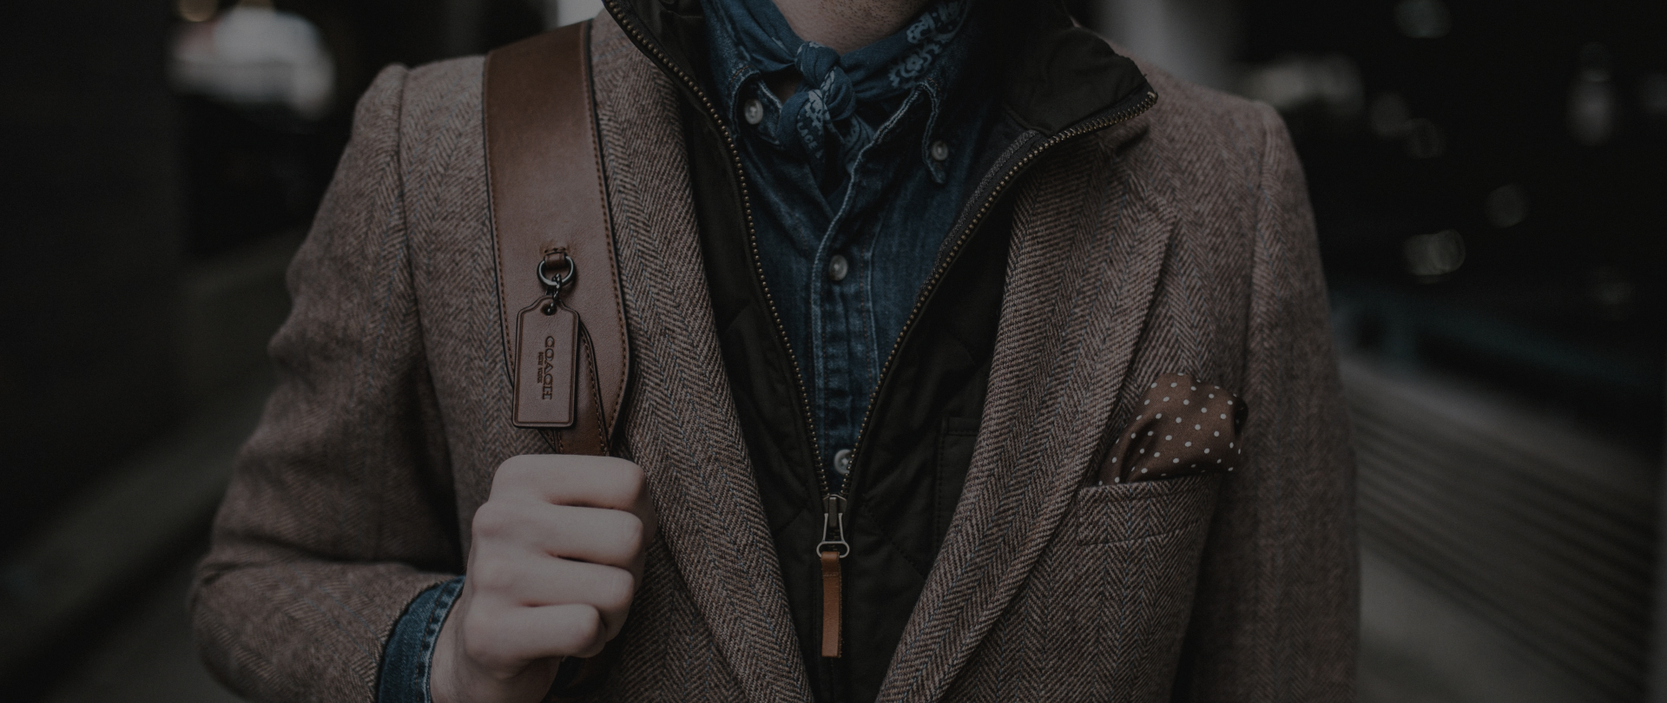
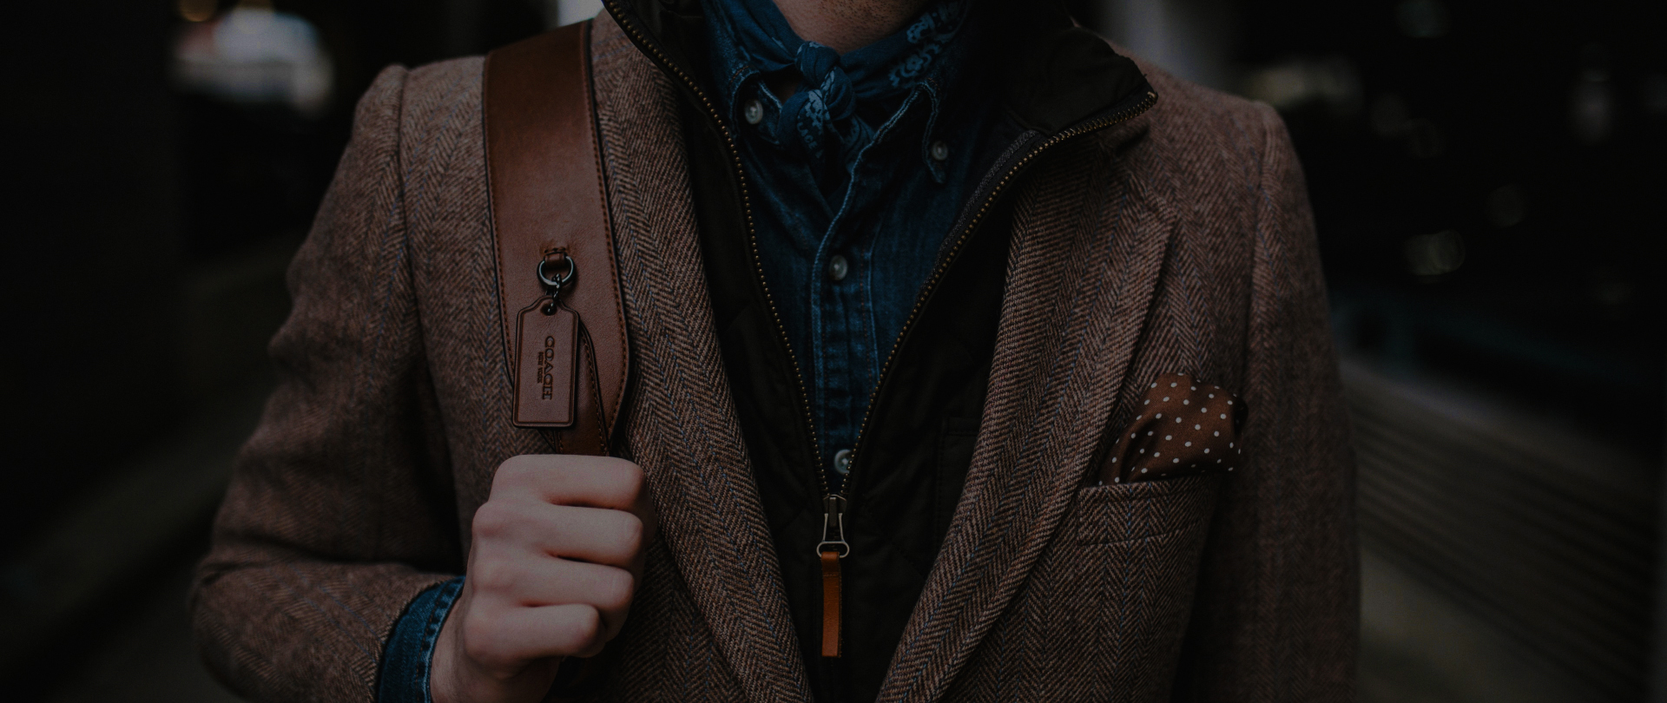
adaptive test

diff --git a/build/css/style.min.css b/build/css/style.min.css
@@ -1,1 +1,1 @@
-*{padding:0;margin:0;border:none}*,::after,::before{-webkit-box-sizing:border-box;box-sizing:border-box}a,a:link,a:visited{text-decoration:none}a:hover{text-decoration:none}aside,footer,header,main,nav,section{display:block}h1,h2,h3,h4,h5,h6,p{font-size:inherit;font-weight:inherit}ul,ul li{list-style:none}img{vertical-align:top}img,svg{max-width:100%;height:auto}address{font-style:normal}button,input,select,textarea{font-family:inherit;font-size:inherit;color:inherit;background-color:transparent}input::-ms-clear{display:none}button,input[type=submit]{display:inline-block;-webkit-box-shadow:none;box-shadow:none;background-color:transparent;background:0 0;cursor:pointer}button:active,button:focus,input:active,input:focus{outline:0}button::-moz-focus-inner{padding:0;border:0}label{cursor:pointer}legend{display:block}.main__body{max-width:1920px;width:100%;margin:0 auto;padding:0 0}.container{max-width:1140px;width:100%;margin:0 auto;padding:0 15px}body{font-family:"PT Sans",sans-serif;font-weight:400;color:#fff;font-size:16px;line-height:1.2;background-color:#000}body.locked{overflow:hidden}body.dark{background:#242424}.icon{background-repeat:no-repeat;background-position:center;background-size:cover;display:inline-block;-webkit-transition:scale .3s ease-in-out;transition:scale .3s ease-in-out}.icon:hover{scale:1.2}.sr-only{position:absolute;width:1px;height:1px;margin:-1px;border:0;padding:0;white-space:nowrap;-webkit-clip-path:inset(100%);clip-path:inset(100%);clip:rect(0 0 0 0);overflow:hidden}.sticky{position:fixed;width:100%;top:0;-webkit-animation-name:navbar;animation-name:navbar;-webkit-animation-duration:.4s;animation-duration:.4s;z-index:1000}@-webkit-keyframes navbar{0%{-webkit-transform:translateY(-100%);transform:translateY(-100%)}100%{-webkit-transform:translateY(0);transform:translateY(0)}}@keyframes navbar{0%{-webkit-transform:translateY(-100%);transform:translateY(-100%)}100%{-webkit-transform:translateY(0);transform:translateY(0)}}.title{font-family:"Playfair Display",serif;font-weight:700;line-height:1.3;font-size:36px;text-align:center;color:#fff}.title::after{content:"";display:block;width:120px;height:1px;background-color:#fff;margin-top:36px;margin:36px auto 0}.button{border:1px solid #fff;padding:12px 28px;font-size:18px;text-transform:uppercase}.button:hover{background-color:#252525;-webkit-transition:background-color .3s ease-in-out;transition:background-color .3s ease-in-out}.button-footer{background-color:#0f0f0f;font-size:14px;line-height:1.5;padding:10px 20px;color:#d0d0d0}.card{display:-webkit-box;display:-ms-flexbox;display:flex;-webkit-box-orient:vertical;-webkit-box-direction:normal;-ms-flex-direction:column;flex-direction:column;gap:10px;font-family:"Playfair Display",serif}.card__link{background-color:#191b1c;margin-bottom:15px;padding:22px 26px}.card__title{font-size:18px;font-weight:400;max-height:50px;overflow:hidden;white-space:nowrap;text-overflow:ellipsis}.card__price{font-size:16px;font-weight:700;color:#d0d0d0;max-height:50px;overflow:hidden;white-space:nowrap;text-overflow:ellipsis}::-webkit-scrollbar{width:10px;background-color:transparent}::-webkit-scrollbar-thumb{background-color:#34261f;border-radius:5px}::-webkit-scrollbar-thumb:hover{background-color:#3f2d25}.header{background-color:#000}.navbar{background-color:#0f0f0f}.navbar__inner{display:-webkit-box;display:-ms-flexbox;display:flex;-webkit-box-pack:justify;-ms-flex-pack:justify;justify-content:space-between;-webkit-box-align:center;-ms-flex-align:center;align-items:center}.logo{z-index:10}.logo a{color:#fff}.logo__img{width:104px;height:27px}.nav__inner{display:-webkit-box;display:-ms-flexbox;display:flex;-webkit-box-align:center;-ms-flex-align:center;align-items:center;gap:32px}.nav__actions{display:-webkit-box;display:-ms-flexbox;display:flex;-webkit-box-align:center;-ms-flex-align:center;align-items:center;gap:40px}.nav__content{height:80px;display:-webkit-box;display:-ms-flexbox;display:flex;-webkit-box-align:center;-ms-flex-align:center;align-items:center;-webkit-box-pack:justify;-ms-flex-pack:justify;justify-content:space-between}.menu{display:-webkit-box;display:-ms-flexbox;display:flex;-webkit-box-align:center;-ms-flex-align:center;align-items:center;text-transform:uppercase}.menu__item{display:-webkit-box;display:-ms-flexbox;display:flex;position:relative}.menu .menu__link{color:gray;-webkit-transition:color .3s ease-in-out,background-color .3s ease-in-out;transition:color .3s ease-in-out,background-color .3s ease-in-out;background-color:none;padding:30.8px 15px;line-height:1.3}.menu .menu__link:hover{color:#fff;background-color:#1f1f1f}.burger{display:none;background:0 0;z-index:3}.header__top{display:-webkit-box;display:-ms-flexbox;display:flex;-webkit-box-pack:justify;-ms-flex-pack:justify;justify-content:space-between;-webkit-box-align:center;-ms-flex-align:center;align-items:center;font-size:12px;color:gray;padding:14px 0}.top__info-phone::before{content:"";background-image:url(../img/header/phone.svg);background-repeat:no-repeat;background-position:center;background-size:cover;display:inline-block;width:13px;height:13px;margin-right:15px;margin-bottom:-3px}.btn-logout::before{content:"";background-image:url(../img/header/logout.svg);background-repeat:no-repeat;background-position:center;background-size:cover;display:inline-block;width:13px;height:13px;margin-right:19px;margin-bottom:-3px}.btn-login:hover,.btn-register:hover{color:#fff;-webkit-transition:color .3s ease-in-out;transition:color .3s ease-in-out}.icon--search{content:"";background-image:url(../img/header/search.svg);width:17px;height:17px}.icon--cart{content:"";background-image:url(../img/header/cart.svg);width:23px;height:18px}.hero{background-image:-webkit-gradient(linear,left top,left bottom,from(rgba(0,0,0,.4))),url(../img/hero/hero12.jpg);background-image:linear-gradient(rgba(0,0,0,.4)),url(../img/hero/hero12.jpg);background-repeat:no-repeat;background-position:center;background-size:cover;padding:155px 0;display:-webkit-box;display:-ms-flexbox;display:flex;-webkit-box-align:center;-ms-flex-align:center;align-items:center}.hero__title{font-size:clamp(16px,-.625rem + 8vw,22px);text-transform:uppercase;line-height:1.3}.hero__inner{display:-webkit-box;display:-ms-flexbox;display:flex;-webkit-box-orient:vertical;-webkit-box-direction:normal;-ms-flex-direction:column;flex-direction:column;-webkit-box-align:center;-ms-flex-align:center;align-items:center;gap:80px}.hero__content{display:-webkit-box;display:-ms-flexbox;display:flex;-webkit-box-orient:vertical;-webkit-box-direction:normal;-ms-flex-direction:column;flex-direction:column;-webkit-box-align:center;-ms-flex-align:center;align-items:center;gap:8px;border:4px solid #fff;padding:110px 60px}.hero__logo{width:185px;height:63px;border-bottom:2px solid #fff;padding-bottom:12px}.hero__text{font-size:16px;text-transform:uppercase;font-size:clamp(12px,.756rem + .51vw,16px);line-height:1.5;max-width:740px;text-align:center}.container-inner{width:100%;max-width:1920px;margin:0 auto}.wrap{display:grid;grid-template-columns:repeat(2,1fr);grid-template-rows:auto auto auto;grid-column-gap:80px}.season__cards{grid-column:1/span 1;grid-row:1}.season__cards--title{text-align:center;margin-bottom:50px;padding-top:90px}.season__cards-list{display:-webkit-box;display:-ms-flexbox;display:flex}.season__catalog{grid-column:2/span 1;grid-row:1;position:relative;background-image:url(/img/season/season.jpg);background-repeat:no-repeat;background-position:center;background-size:cover;aspect-ratio:880/730}.season__catalog-content{position:absolute;top:74%;left:50%;-webkit-transform:translate(-50%,-50%);-ms-transform:translate(-50%,-50%);transform:translate(-50%,-50%);text-align:center}.season__content--title{margin-bottom:30px;text-transform:uppercase;font-size:clamp(30px,.865rem + 1.15vw,36px)}.card__link--season{margin-bottom:25px;display:block}.card__title--season{margin-bottom:10px;display:block;max-height:50px;overflow:hidden;white-space:nowrap;text-overflow:ellipsis}.swiper{max-width:800px;height:440px}.swiper-slide img{width:215px;height:264px;-o-object-fit:cover;object-fit:cover}.swiper .swiper-pagination{display:-webkit-box;display:-ms-flexbox;display:flex;-webkit-box-pack:center;-ms-flex-pack:center;justify-content:center;-webkit-box-align:center;-ms-flex-align:center;align-items:center;margin-top:20px}.swiper .swiper-pagination-bullet{width:12px;height:12px;background-color:#333;border-radius:50%;margin:0 5px}.swiper .swiper-pagination-bullet-active{background-color:#c08d6c}.collection__img{grid-column:1/span 1;grid-row:2;background-image:url(/img/collection/collection.jpg);background-repeat:no-repeat;background-position:center;background-size:cover;aspect-ratio:880/730}.collection__content--title{margin-bottom:40px}.collection__text{font-size:16px;line-height:1.5;max-width:680px;text-align:center;margin-bottom:clamp(32px,-3.25rem + 5.83vw,62px)}.collection__content{grid-column:2/span 1;grid-row:2;align-self:center;justify-self:center;padding:0 30px}.collection__content--button{margin:0 auto;display:block}.novelties{padding:120px 0}.novelties__inner--title{margin-bottom:80px}.novelties__cards-list{display:grid;grid-template-columns:repeat(auto-fill,minmax(215px,1fr));gap:24px}.novelties__cards--style{text-align:center}.novelties__cards--style:nth-child(8){position:relative}.novelties__card--button{position:absolute;top:50%;left:50%;-webkit-transform:translate(-50%,-120%);-ms-transform:translate(-50%,-120%);transform:translate(-50%,-120%);width:190px}.articles{background-color:#0f0f0f}.articles__list{display:grid;grid-template-columns:repeat(2,1fr);grid-template-rows:auto auto auto;grid-row-gap:35px;-webkit-box-align:center;-ms-flex-align:center;align-items:center}.articles--title{padding:60px 0}.articles__img:nth-of-type(1){background-image:url(../img/articles/article-11.jpg);background-repeat:no-repeat;background-size:cover;background-position:center;aspect-ratio:989/437}.articles__img:nth-of-type(2){background-image:url(../img/articles/article-2.webp);background-repeat:no-repeat;background-size:cover;background-position:center;aspect-ratio:989/437}.articles__img:nth-of-type(3){background-image:url(../img/articles/article-3.webp);background-repeat:no-repeat;background-size:cover;background-position:center;aspect-ratio:989/437}.articles__contents-inner{width:100%;max-width:628px;margin:0 auto;padding:0 15px}.articles__content{margin-bottom:40px}.articles__content-title{text-transform:uppercase;font-size:18px;margin-bottom:14px}.articles__content-text{line-height:1.5}.articles__content-bottom{display:-webkit-box;display:-ms-flexbox;display:flex;-webkit-box-pack:justify;-ms-flex-pack:justify;justify-content:space-between;-webkit-box-align:center;-ms-flex-align:center;align-items:center}.articles__content--button{color:#fff}.articles__tags{font-size:18px;text-transform:uppercase;padding:0 15px}.articles__img--grid:nth-of-type(1){grid-column:1/span 1;grid-row:1}.articles__img--grid:nth-of-type(2){grid-column:1/span 1;grid-row:2}.articles__img--grid:nth-of-type(3){grid-column:1/span 1;grid-row:3}.articles__contents--grid:nth-of-type(1){grid-column:2/span 1;grid-row:1}.articles__contents--grid:nth-of-type(2){grid-column:2/span 1;grid-row:2}.articles__contents--grid:nth-of-type(3){grid-column:2/span 1;grid-row:3}.partners{background-color:#0f0f0f;padding:90px 0}.partners--title{margin-bottom:80px}.partners__list{display:-webkit-box;display:-ms-flexbox;display:flex;-webkit-box-align:center;-ms-flex-align:center;align-items:center;-webkit-box-pack:center;-ms-flex-pack:center;justify-content:center;gap:30px;padding:0 20px}.footer__inner{background-image:url(../img/footer/footer.jpg);background-repeat:no-repeat;background-size:cover;background-position:center;padding:80px 0}.footer-wrap{display:grid;grid-template-columns:repeat(auto-fill,minmax(350px,1fr));gap:30px}.footer__title{font-family:"Playfair Display",serif;font-weight:400;font-size:24px;text-transform:uppercase;margin-bottom:40px}.footer__about-text,.footer__mailing-text{line-height:1.5;font-size:14px}.footer__mailing-text{margin-bottom:26px}.footer__list{display:-webkit-box;display:-ms-flexbox;display:flex;-webkit-box-align:center;-ms-flex-align:center;align-items:center;-ms-flex-wrap:wrap;flex-wrap:wrap;row-gap:20px;-webkit-column-gap:10px;-moz-column-gap:10px;column-gap:10px}.footer__form{display:-webkit-box;display:-ms-flexbox;display:flex;-webkit-box-align:center;-ms-flex-align:center;align-items:center}.form__input{background-color:#d0d0d0;padding:10px;border:none;offset:none}input{color:#000}.form__btn{text-transform:uppercase;line-height:1.5;vertical-align:middle}.footer__bottom{padding:20px 0;color:#d0d0d0;font-size:12px}.footer__bottom--inner{display:-webkit-box;display:-ms-flexbox;display:flex;-webkit-box-align:center;-ms-flex-align:center;align-items:center;-webkit-box-pack:justify;-ms-flex-pack:justify;justify-content:space-between}.footer__bottom--inner .footer__policy{color:#d0d0d0;text-decoration:underline}@media screen and (min-width:600px){.articles__content-text{max-height:120px;overflow:hidden;text-overflow:ellipsis}}@media screen and (max-width:1920px){.wrap{grid-column-gap:40px}.season__cards{margin-bottom:60px;padding:0 20px;grid-column:1/span 2}.season__catalog{padding-top:60px;grid-row:2}.season__catalog-content{top:50%}.swiper{max-width:1090px}.swiper-slide{text-align:center}.collection__content{grid-column:1/span 1}}@media (max-width:1439.98px){.container{max-width:1200px}}@media screen and (max-width:1439.98px){.season__catalog{grid-column:2/span 1}.season__catalog-content{left:-50%}.swiper{max-width:800px}.collection__img{grid-row:3}.collection__text{font-size:12px}.collection__content{grid-column:2/span 1;grid-row:3}.articles__img:nth-of-type(1){background-image:-webkit-gradient(linear,left top,left bottom,from(rgba(0,0,0,.6))),url(../img/articles/article-11.jpg);background-image:linear-gradient(rgba(0,0,0,.6)),url(../img/articles/article-11.jpg)}.articles__img:nth-of-type(2){background-image:-webkit-gradient(linear,left top,left bottom,from(rgba(0,0,0,.6))),url(../img/articles/article-2.webp);background-image:linear-gradient(rgba(0,0,0,.6)),url(../img/articles/article-2.webp)}.articles__img:nth-of-type(3){background-image:-webkit-gradient(linear,left top,left bottom,from(rgba(0,0,0,.6))),url(../img/articles/article-3.webp);background-image:linear-gradient(rgba(0,0,0,.6)),url(../img/articles/article-3.webp)}.articles__img--grid:nth-of-type(1){grid-column:1/span 2}.articles__img--grid:nth-of-type(2){grid-column:1/span 2}.articles__img--grid:nth-of-type(3){grid-column:1/span 2}.articles__contents--grid:nth-of-type(1){grid-column:1/span 2}.articles__contents--grid:nth-of-type(2){grid-column:1/span 2}.articles__contents--grid:nth-of-type(3){grid-column:1/span 2}.partners__list{-ms-flex-wrap:wrap;flex-wrap:wrap}}@media (max-width:1023.98px){.container{max-width:970px}}@media screen and (max-width:1023.98px){.collection__text{display:none}}@media screen and (max-width:868px){.swiper{max-width:540px}}@media (max-width:767.98px){.container{max-width:740px}}@media screen and (max-width:767.98px){.menu{position:fixed;background:#0f0f0f;left:0;top:0;height:100vh;width:100vw;display:none}.menu.active{display:-webkit-box;display:-ms-flexbox;display:flex;left:0;top:0;height:100vh;width:100vw;-webkit-box-orient:vertical;-webkit-box-direction:normal;-ms-flex-direction:column;flex-direction:column;pointer-events:all;-webkit-box-pack:center;-ms-flex-pack:center;justify-content:center;-webkit-box-align:center;-ms-flex-align:center;align-items:center;z-index:2;-webkit-animation:fade .1s linear;animation:fade .1s linear}.burger{display:-webkit-box;display:-ms-flexbox;display:flex;position:relative;height:20px;width:30px}.burger.active:before{background:#fefefe;-webkit-transform:rotate(45deg);-ms-transform:rotate(45deg);transform:rotate(45deg);-webkit-transition:cubic-bezier(.785,.135,.15,.86) .3s all;transition:cubic-bezier(.785,.135,.15,.86) .3s all;top:8px}.burger.active:after{background:#fefefe;-webkit-transform:rotate(-45deg);-ms-transform:rotate(-45deg);transform:rotate(-45deg);bottom:10px;-webkit-transition:cubic-bezier(.785,.135,.15,.86) .3s all;transition:cubic-bezier(.785,.135,.15,.86) .3s all}.burger.active span{-webkit-transform:scale(0);-ms-transform:scale(0);transform:scale(0)}.burger:after,.burger:before{content:"";position:absolute;height:2px;width:100%;background:#fefefe;-webkit-transition:cubic-bezier(.785,.135,.15,.86) .3s all;transition:cubic-bezier(.785,.135,.15,.86) .3s all}.burger:before{top:0}.burger::after{bottom:0}.burger span{position:absolute;top:9px;right:0;width:100%;background:#fefefe;height:2px;-webkit-transform:scale(1);-ms-transform:scale(1);transform:scale(1);-webkit-transition:cubic-bezier(.785,.135,.15,.86) .3s all;transition:cubic-bezier(.785,.135,.15,.86) .3s all}.nav__actions{display:none}.header__top{-ms-flex-wrap:wrap;flex-wrap:wrap;-webkit-box-pack:center;-ms-flex-pack:center;justify-content:center;gap:8px;padding:14px 0}.navbar__inner{padding:12px 0}.menu__item{-webkit-box-pack:center;-ms-flex-pack:center;justify-content:center;border-top:1px solid gray;width:100%;font-size:24px}.menu__item:nth-child(3){border-bottom:1px solid gray}.season__cards{padding:0 0}.season__cards--title{padding-top:60px}.season__catalog{grid-column:1/span 2;margin-bottom:30px}.season__catalog-content{grid-column:1/span 2;left:50%}.collection__img{grid-column:1/span 2}.collection__content{grid-column:1/span 2}.novelties{padding:60px 0}.novelties__inner--title{margin-bottom:70px}.partners{padding:60px 0}}@media screen and (max-width:700px){.partners--title{margin-bottom:50px}}@media screen and (max-width:610px){.partners--title{margin-bottom:30px}}@media screen and (max-width:600px){.articles__content{background-color:#191b1c;padding:15px;border-radius:10px}.articles__tags{font-size:16px}.articles__img--grid:nth-of-type(1){display:none}.articles__img--grid:nth-of-type(2){display:none}.articles__img--grid:nth-of-type(3){display:none}.footer__inner{padding:40px 0;text-align:center}.footer__list{-webkit-box-pack:center;-ms-flex-pack:center;justify-content:center}.footer__form{-webkit-box-pack:center;-ms-flex-pack:center;justify-content:center}}@media screen and (max-width:590px){.swiper{max-width:490px}}@media screen and (max-width:560px){.partners__list{gap:0}.partners__item:nth-of-type(2){margin-bottom:20px}.partners__item:nth-of-type(3){margin-bottom:30px}}@media screen and (max-width:500px){.novelties__card--button{-webkit-transform:translate(-50%,-70%);-ms-transform:translate(-50%,-70%);transform:translate(-50%,-70%)}}@media screen and (max-width:400px){.footer-wrap{grid-template-columns:repeat(auto-fill,minmax(280px,1fr))}.footer__form{-webkit-box-orient:vertical;-webkit-box-direction:normal;-ms-flex-direction:column;flex-direction:column;gap:10px}.footer__bottom--inner{-webkit-box-orient:vertical;-webkit-box-direction:normal;-ms-flex-direction:column;flex-direction:column;gap:6px}}@media (max-width:384px){.top__info{font-size:10px}}@media (max-width:374.98px){.container{max-width:none}}@media screen and (max-width:374.98px){.articles__content--button{font-size:16px}.articles__tags{font-size:12px;max-height:50px;overflow:hidden;white-space:nowrap;text-overflow:ellipsis}}
+*{padding:0;margin:0;border:none}*,::after,::before{-webkit-box-sizing:border-box;box-sizing:border-box}a,a:link,a:visited{text-decoration:none}a:hover{text-decoration:none}aside,footer,header,main,nav,section{display:block}h1,h2,h3,h4,h5,h6,p{font-size:inherit;font-weight:inherit}ul,ul li{list-style:none}img{vertical-align:top}img,svg{max-width:100%;height:auto}address{font-style:normal}button,input,select,textarea{font-family:inherit;font-size:inherit;color:inherit;background-color:transparent}input::-ms-clear{display:none}button,input[type=submit]{display:inline-block;-webkit-box-shadow:none;box-shadow:none;background-color:transparent;background:0 0;cursor:pointer}button:active,button:focus,input:active,input:focus{outline:0}button::-moz-focus-inner{padding:0;border:0}label{cursor:pointer}legend{display:block}.main__body{max-width:1920px;width:100%;margin:0 auto;padding:0 0}.container{max-width:1140px;width:100%;margin:0 auto;padding:0 15px}body{font-family:"PT Sans",sans-serif;font-weight:400;color:#fff;font-size:16px;line-height:1.2;background-color:#000}body.locked{overflow:hidden}body.dark{background:#242424}.icon{background-repeat:no-repeat;background-position:center;background-size:cover;display:inline-block;-webkit-transition:scale .3s ease-in-out;transition:scale .3s ease-in-out}.icon:hover{scale:1.2}.sr-only{position:absolute;width:1px;height:1px;margin:-1px;border:0;padding:0;white-space:nowrap;-webkit-clip-path:inset(100%);clip-path:inset(100%);clip:rect(0 0 0 0);overflow:hidden}.sticky{position:fixed;width:100%;top:0;-webkit-animation-name:navbar;animation-name:navbar;-webkit-animation-duration:.4s;animation-duration:.4s;z-index:1000}@-webkit-keyframes navbar{0%{-webkit-transform:translateY(-100%);transform:translateY(-100%)}100%{-webkit-transform:translateY(0);transform:translateY(0)}}@keyframes navbar{0%{-webkit-transform:translateY(-100%);transform:translateY(-100%)}100%{-webkit-transform:translateY(0);transform:translateY(0)}}.title{font-family:"Playfair Display",serif;font-weight:700;line-height:1.3;font-size:36px;text-align:center;color:#fff}.title::after{content:"";display:block;width:120px;height:1px;background-color:#fff;margin-top:36px;margin:36px auto 0}.button{border:1px solid #fff;padding:12px 28px;font-size:18px;text-transform:uppercase}.button:hover{background-color:#252525;-webkit-transition:background-color .3s ease-in-out;transition:background-color .3s ease-in-out}.button-footer{background-color:#0f0f0f;font-size:14px;line-height:1.5;padding:10px 20px;color:#d0d0d0}.card{display:-webkit-box;display:-ms-flexbox;display:flex;-webkit-box-orient:vertical;-webkit-box-direction:normal;-ms-flex-direction:column;flex-direction:column;gap:10px;font-family:"Playfair Display",serif}.card__link{background-color:#191b1c;margin-bottom:15px;padding:22px 26px}.card__title{font-size:18px;font-weight:400;max-height:50px;overflow:hidden;white-space:nowrap;text-overflow:ellipsis}.card__price{font-size:16px;font-weight:700;color:#d0d0d0;max-height:50px;overflow:hidden;white-space:nowrap;text-overflow:ellipsis}::-webkit-scrollbar{width:10px;background-color:transparent}::-webkit-scrollbar-thumb{background-color:#34261f;border-radius:5px}::-webkit-scrollbar-thumb:hover{background-color:#3f2d25}.header{background-color:#000}.navbar{background-color:#0f0f0f}.navbar__inner{display:-webkit-box;display:-ms-flexbox;display:flex;-webkit-box-pack:justify;-ms-flex-pack:justify;justify-content:space-between;-webkit-box-align:center;-ms-flex-align:center;align-items:center}.logo{z-index:10}.logo a{color:#fff}.logo__img{width:104px;height:27px}.nav__inner{display:-webkit-box;display:-ms-flexbox;display:flex;-webkit-box-align:center;-ms-flex-align:center;align-items:center;gap:32px}.nav__actions{display:-webkit-box;display:-ms-flexbox;display:flex;-webkit-box-align:center;-ms-flex-align:center;align-items:center;gap:40px}.nav__content{height:80px;display:-webkit-box;display:-ms-flexbox;display:flex;-webkit-box-align:center;-ms-flex-align:center;align-items:center;-webkit-box-pack:justify;-ms-flex-pack:justify;justify-content:space-between}.menu{display:-webkit-box;display:-ms-flexbox;display:flex;-webkit-box-align:center;-ms-flex-align:center;align-items:center;text-transform:uppercase}.menu__item{display:-webkit-box;display:-ms-flexbox;display:flex;position:relative}.menu .menu__link{color:gray;-webkit-transition:color .3s ease-in-out,background-color .3s ease-in-out;transition:color .3s ease-in-out,background-color .3s ease-in-out;background-color:none;padding:30.8px 15px;line-height:1.3}.menu .menu__link:hover{color:#fff;background-color:#1f1f1f}.burger{display:none;background:0 0;z-index:3}.header__top{display:-webkit-box;display:-ms-flexbox;display:flex;-webkit-box-pack:justify;-ms-flex-pack:justify;justify-content:space-between;-webkit-box-align:center;-ms-flex-align:center;align-items:center;font-size:12px;color:gray;padding:14px 0}.top__info-phone::before{content:"";background-image:url(../img/header/phone.svg);background-repeat:no-repeat;background-position:center;background-size:cover;display:inline-block;width:13px;height:13px;margin-right:15px;margin-bottom:-3px}.btn-logout::before{content:"";background-image:url(../img/header/logout.svg);background-repeat:no-repeat;background-position:center;background-size:cover;display:inline-block;width:13px;height:13px;margin-right:19px;margin-bottom:-3px}.btn-login:hover,.btn-register:hover{color:#fff;-webkit-transition:color .3s ease-in-out;transition:color .3s ease-in-out}.icon--search{content:"";background-image:url(../img/header/search.svg);width:17px;height:17px}.icon--cart{content:"";background-image:url(../img/header/cart.svg);width:23px;height:18px}.hero{background-image:-webkit-gradient(linear,left top,left bottom,from(rgba(0,0,0,.3))),url(../img/hero/hero12.jpg);background-image:linear-gradient(rgba(0,0,0,.3)),url(../img/hero/hero12.jpg);background-repeat:no-repeat;background-position:center;background-size:cover;padding:155px 0;display:-webkit-box;display:-ms-flexbox;display:flex;-webkit-box-align:center;-ms-flex-align:center;align-items:center}.hero__title{font-size:clamp(16px,-.625rem + 8vw,22px);text-transform:uppercase;line-height:1.3}.hero__inner{display:-webkit-box;display:-ms-flexbox;display:flex;-webkit-box-orient:vertical;-webkit-box-direction:normal;-ms-flex-direction:column;flex-direction:column;-webkit-box-align:center;-ms-flex-align:center;align-items:center;gap:80px}.hero__content{display:-webkit-box;display:-ms-flexbox;display:flex;-webkit-box-orient:vertical;-webkit-box-direction:normal;-ms-flex-direction:column;flex-direction:column;-webkit-box-align:center;-ms-flex-align:center;align-items:center;gap:8px;border:4px solid #fff;padding:110px 60px}.hero__logo{width:185px;height:63px;border-bottom:2px solid #fff;padding-bottom:12px}.hero__text{font-size:16px;text-transform:uppercase;font-size:clamp(12px,.756rem + .51vw,16px);line-height:1.5;max-width:740px;text-align:center}.container-inner{width:100%;max-width:1920px;margin:0 auto}.wrap{display:grid;grid-template-columns:repeat(2,1fr);grid-template-rows:auto auto auto;grid-column-gap:80px}.season__cards{grid-column:1/span 1;grid-row:1}.season__cards--title{text-align:center;margin-bottom:50px;padding-top:90px}.season__cards-list{display:-webkit-box;display:-ms-flexbox;display:flex}.season__catalog{grid-column:2/span 1;grid-row:1;position:relative;background-image:url(/img/season/season.jpg);background-repeat:no-repeat;background-position:center;background-size:cover;aspect-ratio:880/730}.season__catalog-content{position:absolute;top:74%;left:50%;-webkit-transform:translate(-50%,-50%);-ms-transform:translate(-50%,-50%);transform:translate(-50%,-50%);text-align:center}.season__content--title{margin-bottom:30px;text-transform:uppercase;font-size:clamp(30px,.865rem + 1.15vw,36px)}.card__link--season{margin-bottom:25px;display:block}.card__title--season{margin-bottom:10px;display:block;max-height:50px;overflow:hidden;white-space:nowrap;text-overflow:ellipsis}.swiper{max-width:800px;height:440px}.swiper-slide img{width:215px;height:264px;-o-object-fit:cover;object-fit:cover}.swiper .swiper-pagination{display:-webkit-box;display:-ms-flexbox;display:flex;-webkit-box-pack:center;-ms-flex-pack:center;justify-content:center;-webkit-box-align:center;-ms-flex-align:center;align-items:center;margin-top:20px}.swiper .swiper-pagination-bullet{width:12px;height:12px;background-color:#333;border-radius:50%;margin:0 5px}.swiper .swiper-pagination-bullet-active{background-color:#c08d6c}.collection__img{grid-column:1/span 1;grid-row:2;background-image:url(/img/collection/collection.jpg);background-repeat:no-repeat;background-position:center;background-size:cover;aspect-ratio:880/730}.collection__content--title{margin-bottom:40px}.collection__text{font-size:16px;line-height:1.5;max-width:680px;text-align:center;margin-bottom:clamp(32px,-3.25rem + 5.83vw,62px)}.collection__content{grid-column:2/span 1;grid-row:2;align-self:center;justify-self:center;padding:0 30px}.collection__content--button{margin:0 auto;display:block}.novelties{padding:120px 0}.novelties__inner--title{margin-bottom:80px}.novelties__cards-list{display:grid;grid-template-columns:repeat(auto-fill,minmax(215px,1fr));gap:24px}.novelties__cards--style{text-align:center}.novelties__cards--style:nth-child(8){position:relative}.novelties__card--button{position:absolute;top:50%;left:50%;-webkit-transform:translate(-50%,-120%);-ms-transform:translate(-50%,-120%);transform:translate(-50%,-120%);width:190px}.articles{background-color:#0f0f0f}.articles__list{display:grid;grid-template-columns:repeat(2,1fr);grid-template-rows:auto auto auto;grid-row-gap:35px;-webkit-box-align:center;-ms-flex-align:center;align-items:center}.articles--title{padding:60px 0}.articles__img:nth-of-type(1){background-image:url(../img/articles/article-11.jpg);background-repeat:no-repeat;background-size:cover;background-position:center;aspect-ratio:989/437}.articles__img:nth-of-type(2){background-image:url(../img/articles/article-2.webp);background-repeat:no-repeat;background-size:cover;background-position:center;aspect-ratio:989/437}.articles__img:nth-of-type(3){background-image:url(../img/articles/article-3.webp);background-repeat:no-repeat;background-size:cover;background-position:center;aspect-ratio:989/437}.articles__contents-inner{width:100%;max-width:628px;margin:0 auto;padding:0 15px}.articles__content{margin-bottom:40px}.articles__content-title{text-transform:uppercase;font-size:18px;margin-bottom:14px}.articles__content-text{line-height:1.5}.articles__content-bottom{display:-webkit-box;display:-ms-flexbox;display:flex;-webkit-box-pack:justify;-ms-flex-pack:justify;justify-content:space-between;-webkit-box-align:center;-ms-flex-align:center;align-items:center}.articles__content--button{color:#fff}.articles__tags{font-size:18px;text-transform:uppercase;padding:0 15px}.articles__img--grid:nth-of-type(1){grid-column:1/span 1;grid-row:1}.articles__img--grid:nth-of-type(2){grid-column:1/span 1;grid-row:2}.articles__img--grid:nth-of-type(3){grid-column:1/span 1;grid-row:3}.articles__contents--grid:nth-of-type(1){grid-column:2/span 1;grid-row:1}.articles__contents--grid:nth-of-type(2){grid-column:2/span 1;grid-row:2}.articles__contents--grid:nth-of-type(3){grid-column:2/span 1;grid-row:3}.partners{background-color:#0f0f0f;padding:90px 0}.partners--title{margin-bottom:80px}.partners__list{display:-webkit-box;display:-ms-flexbox;display:flex;-webkit-box-align:center;-ms-flex-align:center;align-items:center;-webkit-box-pack:center;-ms-flex-pack:center;justify-content:center;gap:30px;padding:0 20px}.footer__inner{background-image:url(../img/footer/footer.jpg);background-repeat:no-repeat;background-size:cover;background-position:center;padding:80px 0}.footer-wrap{display:grid;grid-template-columns:repeat(auto-fill,minmax(350px,1fr));gap:30px}.footer__title{font-family:"Playfair Display",serif;font-weight:400;font-size:24px;text-transform:uppercase;margin-bottom:40px}.footer__about-text,.footer__mailing-text{line-height:1.5;font-size:14px}.footer__mailing-text{margin-bottom:26px}.footer__list{display:-webkit-box;display:-ms-flexbox;display:flex;-webkit-box-align:center;-ms-flex-align:center;align-items:center;-ms-flex-wrap:wrap;flex-wrap:wrap;row-gap:20px;-webkit-column-gap:10px;-moz-column-gap:10px;column-gap:10px}.footer__form{display:-webkit-box;display:-ms-flexbox;display:flex;-webkit-box-align:center;-ms-flex-align:center;align-items:center}.form__input{background-color:#d0d0d0;padding:10px;border:none;offset:none}input{color:#000}.form__btn{text-transform:uppercase;line-height:1.5;vertical-align:middle}.footer__bottom{padding:20px 0;color:#d0d0d0;font-size:12px}.footer__bottom--inner{display:-webkit-box;display:-ms-flexbox;display:flex;-webkit-box-align:center;-ms-flex-align:center;align-items:center;-webkit-box-pack:justify;-ms-flex-pack:justify;justify-content:space-between}.footer__bottom--inner .footer__policy{color:#d0d0d0;text-decoration:underline}@media screen and (min-width:600px){.articles__content-text{max-height:120px;overflow:hidden;text-overflow:ellipsis}}@media screen and (max-width:1920px){.wrap{grid-column-gap:40px}.season__cards{margin-bottom:60px;padding:0 20px;grid-column:1/span 2}.season__catalog{padding-top:60px;grid-row:2}.season__catalog-content{top:50%}.swiper{max-width:1090px}.swiper-slide{text-align:center}.collection__content{grid-column:1/span 1}}@media (max-width:1439.98px){.container{max-width:1200px}}@media screen and (max-width:1439.98px){.season__catalog{grid-column:2/span 1}.season__catalog-content{left:-50%}.swiper{max-width:800px}.collection__img{grid-row:3}.collection__text{font-size:12px}.collection__content{grid-column:2/span 1;grid-row:3}.articles__img:nth-of-type(1){background-image:-webkit-gradient(linear,left top,left bottom,from(rgba(0,0,0,.6))),url(../img/articles/article-11.jpg);background-image:linear-gradient(rgba(0,0,0,.6)),url(../img/articles/article-11.jpg)}.articles__img:nth-of-type(2){background-image:-webkit-gradient(linear,left top,left bottom,from(rgba(0,0,0,.6))),url(../img/articles/article-2.webp);background-image:linear-gradient(rgba(0,0,0,.6)),url(../img/articles/article-2.webp)}.articles__img:nth-of-type(3){background-image:-webkit-gradient(linear,left top,left bottom,from(rgba(0,0,0,.6))),url(../img/articles/article-3.webp);background-image:linear-gradient(rgba(0,0,0,.6)),url(../img/articles/article-3.webp)}.articles__img--grid:nth-of-type(1){grid-column:1/span 2}.articles__img--grid:nth-of-type(2){grid-column:1/span 2}.articles__img--grid:nth-of-type(3){grid-column:1/span 2}.articles__contents--grid:nth-of-type(1){grid-column:1/span 2}.articles__contents--grid:nth-of-type(2){grid-column:1/span 2}.articles__contents--grid:nth-of-type(3){grid-column:1/span 2}.partners__list{-ms-flex-wrap:wrap;flex-wrap:wrap}}@media (max-width:1023.98px){.container{max-width:970px}}@media screen and (max-width:1023.98px){.collection__text{display:none}}@media screen and (max-width:868px){.swiper{max-width:540px}}@media (max-width:767.98px){.container{max-width:740px}}@media screen and (max-width:767.98px){.menu{position:fixed;background:#0f0f0f;left:0;top:0;height:100vh;width:100vw;display:none}.menu.active{display:-webkit-box;display:-ms-flexbox;display:flex;left:0;top:0;height:100vh;width:100vw;-webkit-box-orient:vertical;-webkit-box-direction:normal;-ms-flex-direction:column;flex-direction:column;pointer-events:all;-webkit-box-pack:center;-ms-flex-pack:center;justify-content:center;-webkit-box-align:center;-ms-flex-align:center;align-items:center;z-index:2;-webkit-animation:fade .1s linear;animation:fade .1s linear}.burger{display:-webkit-box;display:-ms-flexbox;display:flex;position:relative;height:20px;width:30px}.burger.active:before{background:#fefefe;-webkit-transform:rotate(45deg);-ms-transform:rotate(45deg);transform:rotate(45deg);-webkit-transition:cubic-bezier(.785,.135,.15,.86) .3s all;transition:cubic-bezier(.785,.135,.15,.86) .3s all;top:8px}.burger.active:after{background:#fefefe;-webkit-transform:rotate(-45deg);-ms-transform:rotate(-45deg);transform:rotate(-45deg);bottom:10px;-webkit-transition:cubic-bezier(.785,.135,.15,.86) .3s all;transition:cubic-bezier(.785,.135,.15,.86) .3s all}.burger.active span{-webkit-transform:scale(0);-ms-transform:scale(0);transform:scale(0)}.burger:after,.burger:before{content:"";position:absolute;height:2px;width:100%;background:#fefefe;-webkit-transition:cubic-bezier(.785,.135,.15,.86) .3s all;transition:cubic-bezier(.785,.135,.15,.86) .3s all}.burger:before{top:0}.burger::after{bottom:0}.burger span{position:absolute;top:9px;right:0;width:100%;background:#fefefe;height:2px;-webkit-transform:scale(1);-ms-transform:scale(1);transform:scale(1);-webkit-transition:cubic-bezier(.785,.135,.15,.86) .3s all;transition:cubic-bezier(.785,.135,.15,.86) .3s all}.nav__actions{display:none}.header__top{-ms-flex-wrap:wrap;flex-wrap:wrap;-webkit-box-pack:center;-ms-flex-pack:center;justify-content:center;gap:8px;padding:14px 0}.navbar__inner{padding:12px 0}.menu__item{-webkit-box-pack:center;-ms-flex-pack:center;justify-content:center;border-top:1px solid gray;width:100%;font-size:24px}.menu__item:nth-child(3){border-bottom:1px solid gray}.season__cards{padding:0 0}.season__cards--title{padding-top:60px}.season__catalog{grid-column:1/span 2;margin-bottom:30px}.season__catalog-content{grid-column:1/span 2;left:50%}.collection__img{grid-column:1/span 2}.collection__content{grid-column:1/span 2}.novelties{padding:60px 0}.novelties__inner--title{margin-bottom:70px}.partners{padding:60px 0}}@media screen and (max-width:700px){.partners--title{margin-bottom:50px}}@media screen and (max-width:610px){.partners--title{margin-bottom:30px}}@media screen and (max-width:600px){.articles__content{background-color:#191b1c;padding:15px;border-radius:10px}.articles__content-title{font-size:14px}.articles__content-text{font-size:14px}.articles__content--button{font-size:14px}.articles__tags{font-size:14px}.articles__img--grid:nth-of-type(1){display:none}.articles__img--grid:nth-of-type(2){display:none}.articles__img--grid:nth-of-type(3){display:none}.footer__inner{padding:40px 0;text-align:center}.footer__list{-webkit-box-pack:center;-ms-flex-pack:center;justify-content:center}.footer__form{-webkit-box-pack:center;-ms-flex-pack:center;justify-content:center}}@media screen and (max-width:590px){.swiper{max-width:490px}}@media screen and (max-width:560px){.partners__list{gap:0}.partners__item:nth-of-type(2){margin-bottom:20px}.partners__item:nth-of-type(3){margin-bottom:30px}}@media screen and (max-width:500px){.novelties__card--button{-webkit-transform:translate(-50%,-70%);-ms-transform:translate(-50%,-70%);transform:translate(-50%,-70%)}}@media screen and (max-width:400px){.footer-wrap{grid-template-columns:repeat(auto-fill,minmax(280px,1fr))}.footer__form{-webkit-box-orient:vertical;-webkit-box-direction:normal;-ms-flex-direction:column;flex-direction:column;gap:10px}.footer__bottom--inner{-webkit-box-orient:vertical;-webkit-box-direction:normal;-ms-flex-direction:column;flex-direction:column;gap:6px}}@media (max-width:384px){.top__info{font-size:10px}}@media (max-width:374.98px){.container{max-width:none}}@media screen and (max-width:374.98px){.articles__tags{font-size:12px;max-height:50px;overflow:hidden;white-space:nowrap;text-overflow:ellipsis}}

diff --git a/build/js/scripts.min.js b/build/js/scripts.min.js
@@ -1,1 +1,1 @@
-function burgerMenu(){const e=document.querySelector(".burger"),s=document.querySelector(".menu"),i=document.querySelector("body");e.addEventListener("click",(()=>{s.classList.contains("active")?(s.classList.remove("active"),e.classList.remove("active"),i.classList.remove("locked")):(s.classList.add("active"),e.classList.add("active"),i.classList.add("locked"))})),window.addEventListener("resize",(()=>{window.innerWidth>991.98&&(s.classList.remove("active"),e.classList.remove("active"),i.classList.remove("locked"))}))}burgerMenu();const navbar=document.querySelector(".navbar");window.onscroll=()=>{window.scrollY>200?navbar.classList.add("sticky"):navbar.classList.remove("sticky")};var swiper=new Swiper(".mySwiper",{slidesPerView:3,spaceBetween:50,pagination:{el:".swiper-pagination",clickable:!0},breakpoints:{320:{slidesPerView:1,spaceBetween:15},375:{slidesPerView:1,spaceBetween:15},590:{slidesPerView:2,spaceBetween:20},768:{slidesPerView:2,spaceBetween:40},868:{slidesPerView:3,spaceBetween:40},1024:{slidesPerView:3,spaceBetween:40},1440:{slidesPerView:4,spaceBetween:40},1920:{slidesPerView:3,spaceBetween:50}}});const footerFormBtn=document.getElementById("form-btn");footerFormBtn.addEventListener("click",(()=>{alert("Сайт знаходиться в розробці")}));
+function burgerMenu(){const e=document.querySelector(".burger"),s=document.querySelector(".menu"),i=document.querySelector("body");e.addEventListener("click",(()=>{s.classList.contains("active")?(s.classList.remove("active"),e.classList.remove("active"),i.classList.remove("locked")):(s.classList.add("active"),e.classList.add("active"),i.classList.add("locked"))})),window.addEventListener("resize",(()=>{window.innerWidth>991.98&&(s.classList.remove("active"),e.classList.remove("active"),i.classList.remove("locked"))}))}burgerMenu();const navbar=document.querySelector(".navbar");window.onscroll=()=>{window.scrollY>200?navbar.classList.add("sticky"):navbar.classList.remove("sticky")};var swiper=new Swiper(".mySwiper",{slidesPerView:3,spaceBetween:50,pagination:{el:".swiper-pagination",clickable:!0},breakpoints:{200:{slidesPerView:1,spaceBetween:15},320:{slidesPerView:1,spaceBetween:15},375:{slidesPerView:1,spaceBetween:15},590:{slidesPerView:2,spaceBetween:20},768:{slidesPerView:2,spaceBetween:40},868:{slidesPerView:3,spaceBetween:40},1024:{slidesPerView:3,spaceBetween:40},1440:{slidesPerView:4,spaceBetween:40},1920:{slidesPerView:3,spaceBetween:50}}});const footerFormBtn=document.getElementById("form-btn");footerFormBtn.addEventListener("click",(()=>{alert("Сайт знаходиться в розробці")}));

diff --git a/build/css/style.css b/build/css/style.css
@@ -460,8 +460,8 @@ body.dark {
 }
 
 .hero {
-  background-image: -webkit-gradient(linear, left top, left bottom, from(rgba(0, 0, 0, 0.4))), url("../img/hero/hero12.jpg");
-  background-image: linear-gradient(rgba(0, 0, 0, 0.4)), url("../img/hero/hero12.jpg");
+  background-image: -webkit-gradient(linear, left top, left bottom, from(rgba(0, 0, 0, 0.3))), url("../img/hero/hero12.jpg");
+  background-image: linear-gradient(rgba(0, 0, 0, 0.3)), url("../img/hero/hero12.jpg");
   background-repeat: no-repeat;
   background-position: center;
   background-size: cover;
@@ -1269,8 +1269,20 @@ input {
     border-radius: 10px;
   }
 
+  .articles__content-title {
+    font-size: 14px;
+  }
+
+  .articles__content-text {
+    font-size: 14px;
+  }
+
+  .articles__content--button {
+    font-size: 14px;
+  }
+
   .articles__tags {
-    font-size: 16px;
+    font-size: 14px;
   }
 
   .articles__img--grid:nth-of-type(1) {
@@ -1366,10 +1378,6 @@ input {
 }
 
 @media screen and (max-width: 374.98px) {
-  .articles__content--button {
-    font-size: 16px;
-  }
-
   .articles__tags {
     font-size: 12px;
     max-height: 50px;

diff --git a/src/scss/_articles-section.scss b/src/scss/_articles-section.scss
@@ -73,6 +73,10 @@
 		text-transform: uppercase;
 		font-size: 18px;
 		margin-bottom: 14px;
+
+		@media screen and (max-width: 600px) {
+			font-size: 14px;
+		}
 	}
 
 	&-text {
@@ -82,6 +86,10 @@
 			max-height: 120px;
 			overflow: hidden;
 			text-overflow: ellipsis;
+		}
+
+		@media screen and (max-width: 600px) {
+			font-size: 14px;
 		}
 	}
 
@@ -94,8 +102,8 @@
 	&--button {
 		color: $colorLight;
 
-		@media screen and (max-width: $breakpoint375) {
-			font-size: 16px;
+		@media screen and (max-width: 600px) {
+			font-size: 14px;
 		}
 	}
 }
@@ -106,7 +114,7 @@
 	padding: 0 15px;
 
 	@media screen and (max-width: 600px) {
-		font-size: 16px;
+		font-size: 14px;
 	}
 	@media screen and (max-width: $breakpoint375) {
 		font-size: 12px;

diff --git a/build/js/scripts.js b/build/js/scripts.js
@@ -24,17 +24,6 @@ function burgerMenu() {
 }
 burgerMenu()
 
-// window.addEventListener('scroll', function() {
-//     const navbar = document.querySelector('navbar');
-//     const scrollPosition = window.scrollY;
-
-//     if (scrollPosition > 10) {
-//         navbar.classList.add('sticky');
-//     } else {
-//         navbar.classList.remove('sticky');
-//     }
-// });
-
 
 const navbar = document.querySelector('.navbar');
 
@@ -54,6 +43,10 @@ var swiper = new Swiper(".mySwiper", {
 		clickable: true,
 	},
 	breakpoints: {
+		200: {
+			slidesPerView: 1,
+			spaceBetween: 15,
+		},
 		320: {
 			slidesPerView: 1,
 			spaceBetween: 15,

diff --git a/src/js/main.js b/src/js/main.js
@@ -23,17 +23,6 @@ function burgerMenu() {
 }
 burgerMenu()
 
-// window.addEventListener('scroll', function() {
-//     const navbar = document.querySelector('navbar');
-//     const scrollPosition = window.scrollY;
-
-//     if (scrollPosition > 10) {
-//         navbar.classList.add('sticky');
-//     } else {
-//         navbar.classList.remove('sticky');
-//     }
-// });
-
 
 const navbar = document.querySelector('.navbar');
 
@@ -53,6 +42,10 @@ var swiper = new Swiper(".mySwiper", {
 		clickable: true,
 	},
 	breakpoints: {
+		200: {
+			slidesPerView: 1,
+			spaceBetween: 15,
+		},
 		320: {
 			slidesPerView: 1,
 			spaceBetween: 15,

diff --git a/src/scss/_hero-section.scss b/src/scss/_hero-section.scss
@@ -1,6 +1,6 @@
 .hero {
 	background-image: 
-	linear-gradient(rgba(0, 0, 0, 0.4)),
+	linear-gradient(rgba(0, 0, 0, 0.3)),
 	url('../img/hero/hero12.jpg');
 	background-repeat: no-repeat;
 	background-position: center;
